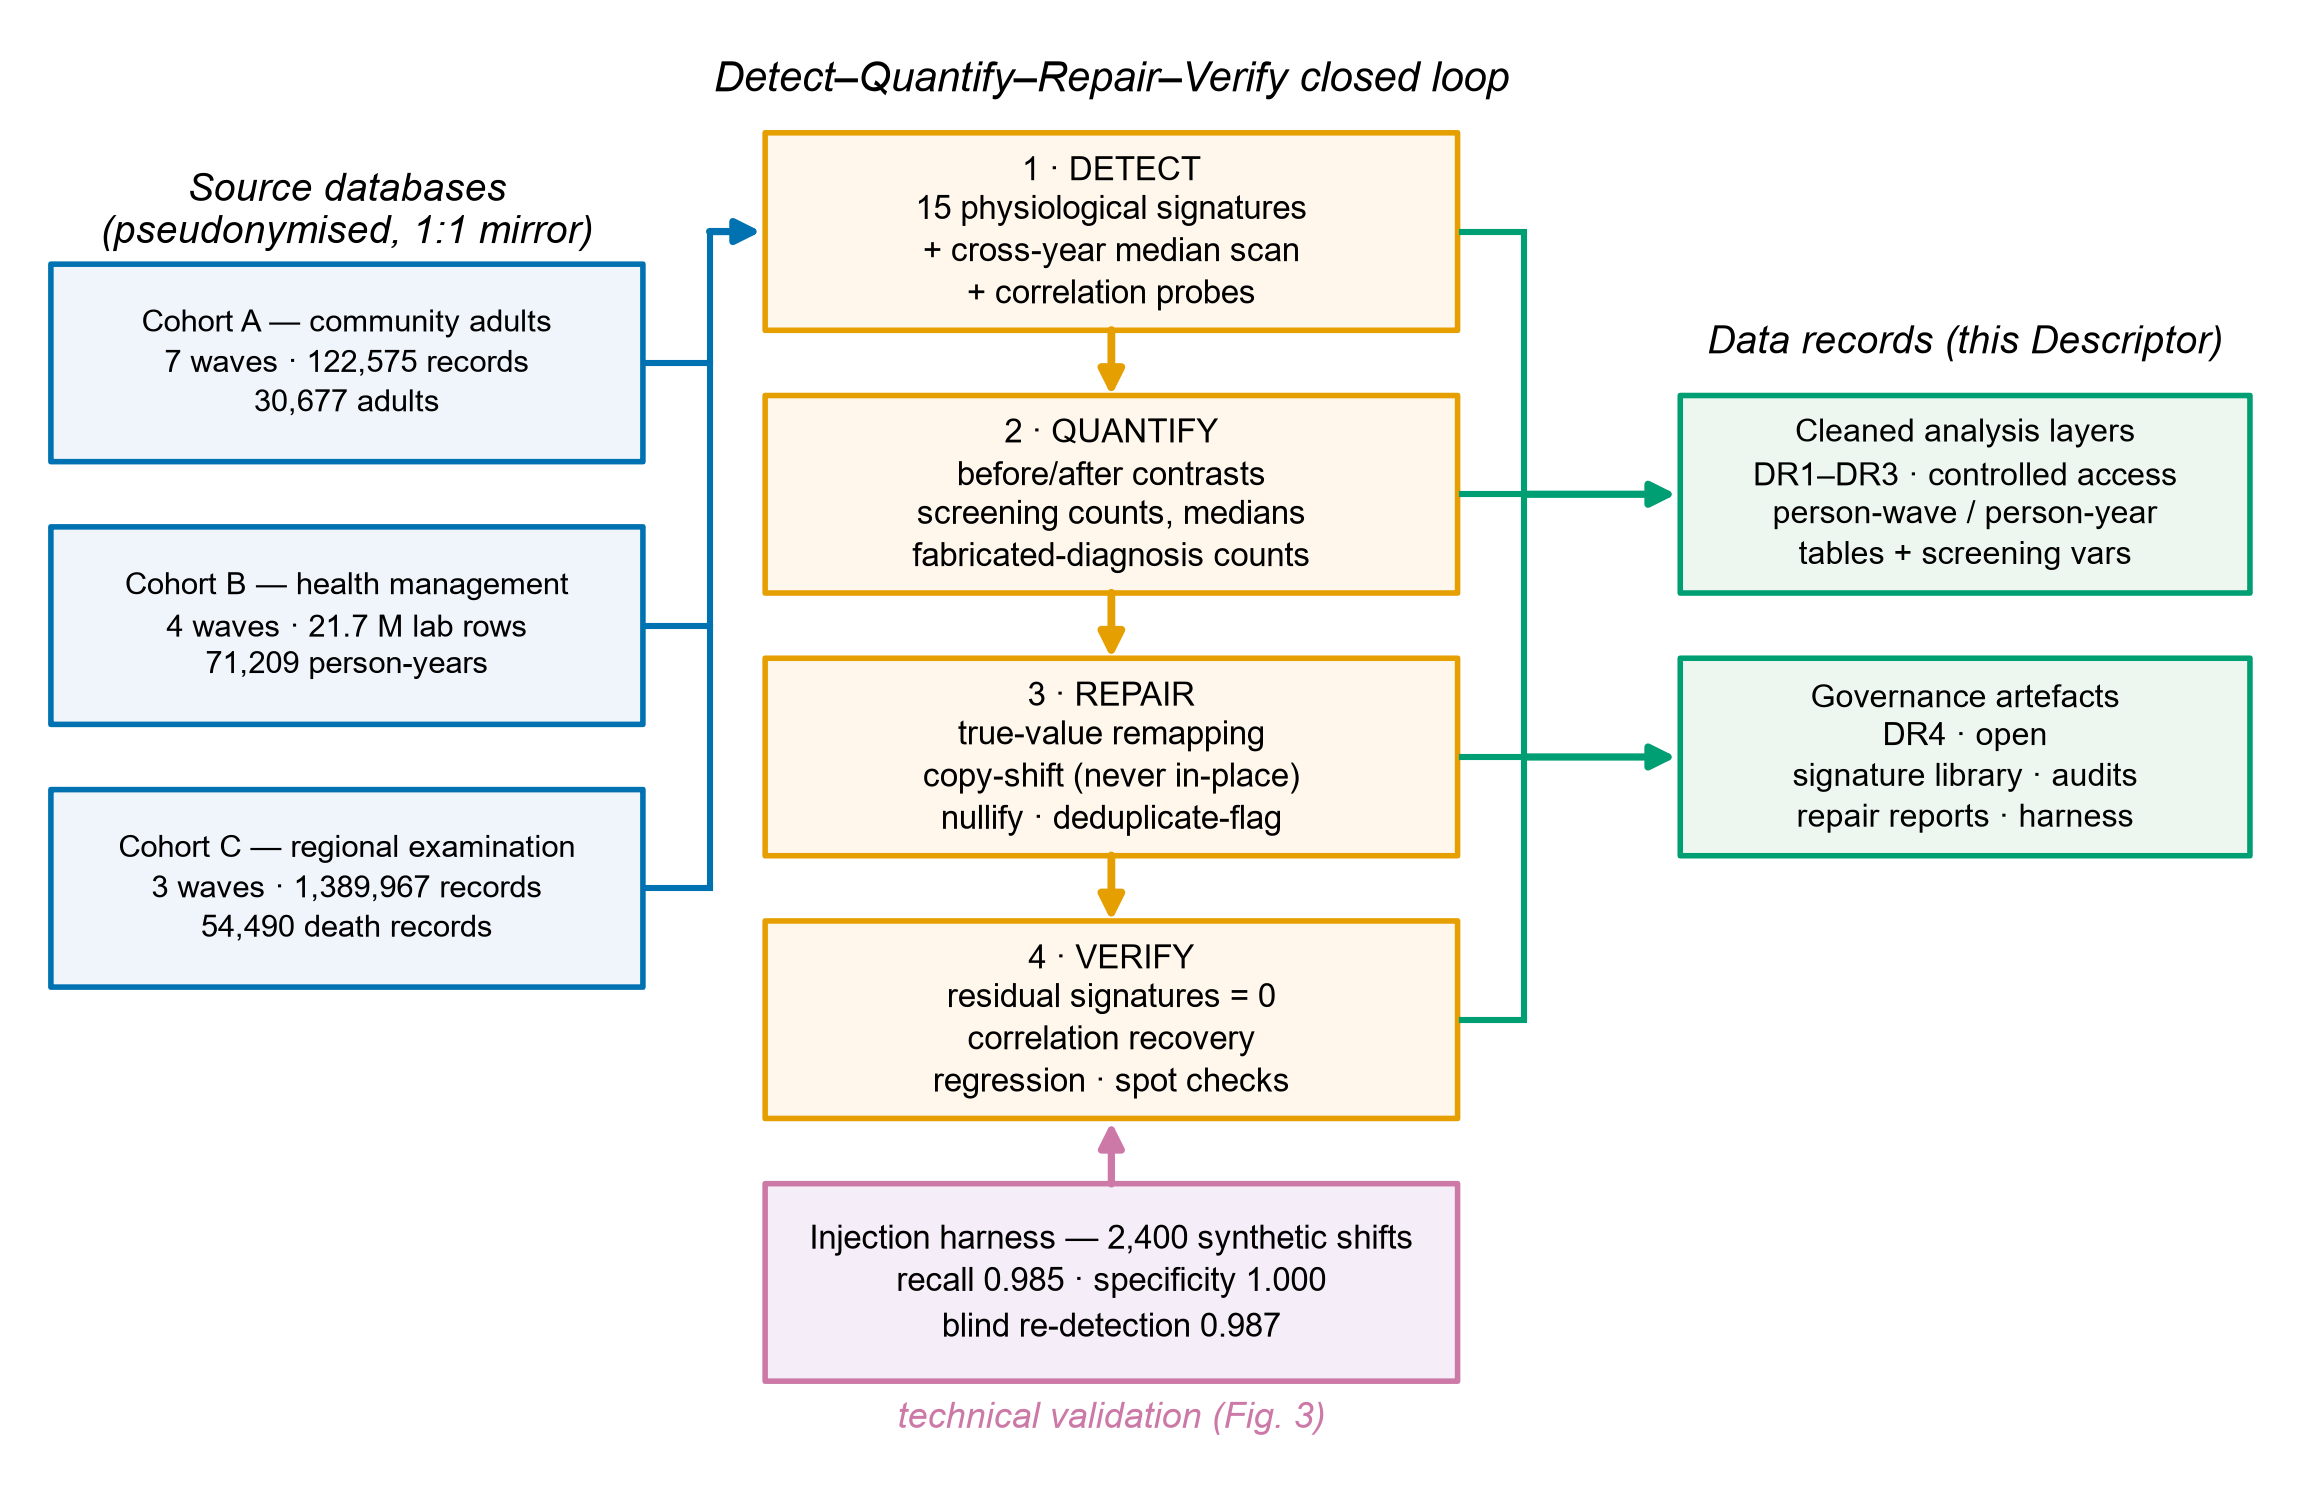
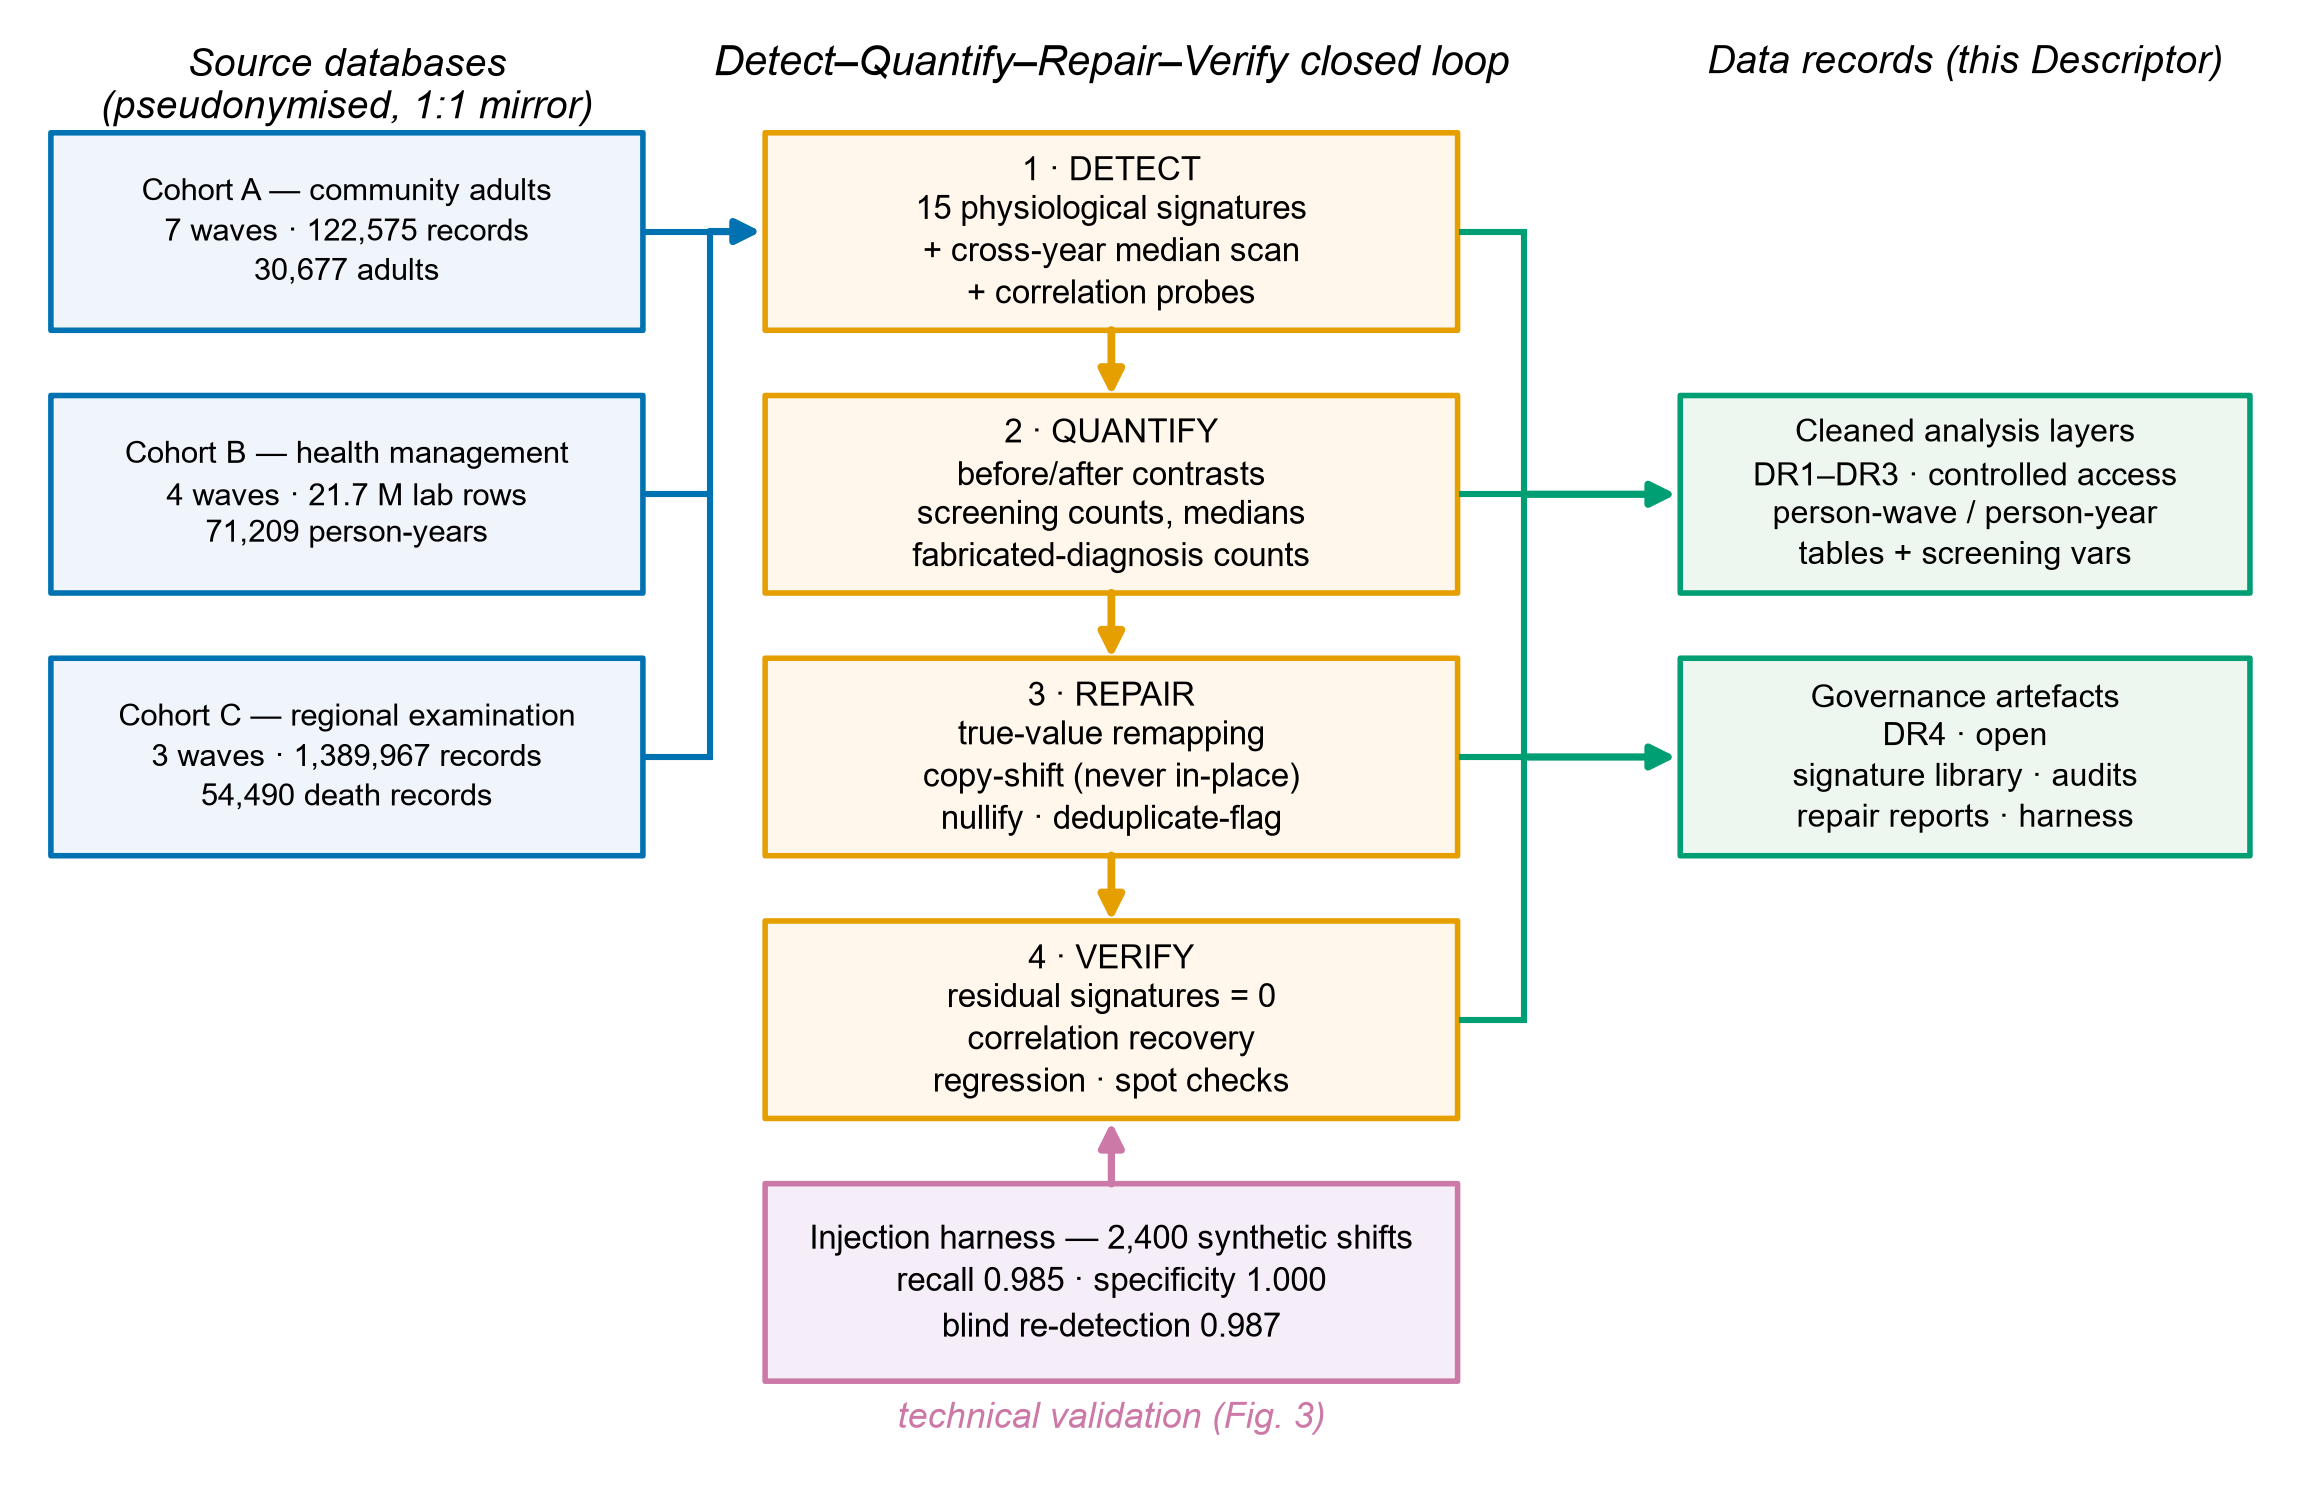
v1.0.1-prep: fig1 column alignment (left boxes row-aligned with loop steps; column titles top-aligned)

diff --git a/code/make_figures_sd.py b/code/make_figures_sd.py
@@ -97,14 +97,14 @@ def arrow(ax, x1, y1, x2, y2, color="#444444", lw=1.2, style="-|>"):
 fig, ax = plt.subplots(figsize=(7.2, 4.6))
 ax.set_xlim(0, 100); ax.set_ylim(0, 64); ax.axis("off")
 
-# 源数据库列（3 框一组：高 10.5、间隙 3.5，组中心与中列对齐 = 31.25）
-srcs = [(f"Cohort A — community adults\n7 waves · {N_A_REC:,} records\n{N_A_IND:,} adults", 40),
-        (f"Cohort B — health management\n4 waves · {N_B_LAB_M} lab rows\n{N_B_PY:,} person-years", 26),
-        (f"Cohort C — regional examination\n3 waves · {N_C_REC:,} records\n{N_C_DEATH:,} death records", 12)]
+# 源数据库列（3 框与中列前三框同行对齐：y=47/33/19，高 10.5、间隙 3.5）
+srcs = [(f"Cohort A — community adults\n7 waves · {N_A_REC:,} records\n{N_A_IND:,} adults", 47),
+        (f"Cohort B — health management\n4 waves · {N_B_LAB_M} lab rows\n{N_B_PY:,} person-years", 33),
+        (f"Cohort C — regional examination\n3 waves · {N_C_REC:,} records\n{N_C_DEATH:,} death records", 19)]
 for t, y in srcs:
     box(ax, 0.5, y, 26.5, 10.5, t, "#EFF5FB", "#0072B2", 5.6)
-ax.text(13.75, 53.3, "Source databases\n(pseudonymised, 1:1 mirror)",
-        ha="center", va="center", fontsize=7.0, style="italic")
+ax.text(13.75, 62.2, "Source databases\n(pseudonymised, 1:1 mirror)",
+        ha="center", va="top", fontsize=7.0, style="italic")
 
 # 四步闭环（竖列）
 steps = [("1 · DETECT", "15 physiological signatures\n+ cross-year median scan\n+ correlation probes", 47),
@@ -115,21 +115,21 @@ for t, sub, y in steps:
     box(ax, 32.5, y, 31, 10.5, f"{t}\n{sub}", "#FFF7EC", "#E69F00", 6.0)
 for y1, y2 in [(47, 43.5), (33, 29.5), (19, 15.5)]:
     arrow(ax, 48, y1, 48, y2, "#E69F00", 1.4)
-ax.text(48, 60.3, "Detect–Quantify–Repair–Verify closed loop",
-        ha="center", va="center", fontsize=7.5, style="italic")
+ax.text(48, 62.2, "Detect–Quantify–Repair–Verify closed loop",
+        ha="center", va="top", fontsize=7.5, style="italic")
 
 # 数据资产列（2 框一组：高 10.5、间隙 3.5，组中心 31.25）
 assets = [("Cleaned analysis layers", "DR1–DR3 · controlled access\nperson-wave / person-year\ntables + screening vars", 33, "#EDF7F0", "#009E73"),
           ("Governance artefacts", "DR4 · open\nsignature library · audits\nrepair reports · harness", 19, "#EDF7F0", "#009E73")]
 for t, sub, y, fc, ec in assets:
     box(ax, 73.5, y, 25.5, 10.5, f"{t}\n{sub}", fc, ec, 5.8)
-ax.text(86.25, 46.3, "Data records (this Descriptor)",
-        ha="center", va="center", fontsize=7.0, style="italic")
+ax.text(86.25, 62.2, "Data records (this Descriptor)",
+        ha="center", va="top", fontsize=7.0, style="italic")
 
 # 源→闭环（左侧汇流线：三个库统一流入闭环起点 DETECT）
-ax.plot([30.0, 30.0], [17.25, 52.25], color="#0072B2", lw=1.1,
+ax.plot([30.0, 30.0], [24.25, 52.25], color="#0072B2", lw=1.1,
         solid_capstyle="round", zorder=1)
-for y in (45.25, 31.25, 17.25):
+for y in (52.25, 38.25, 24.25):
     ax.plot([27.2, 30.0], [y, y], color="#0072B2", lw=1.1, zorder=1)
 arrow(ax, 30.0, 52.25, 32.3, 52.25, "#0072B2", 1.3)
 # 闭环→资产（右侧汇流线：DR1–DR3 与 DR4 均为全闭环产出，非单步产出）
